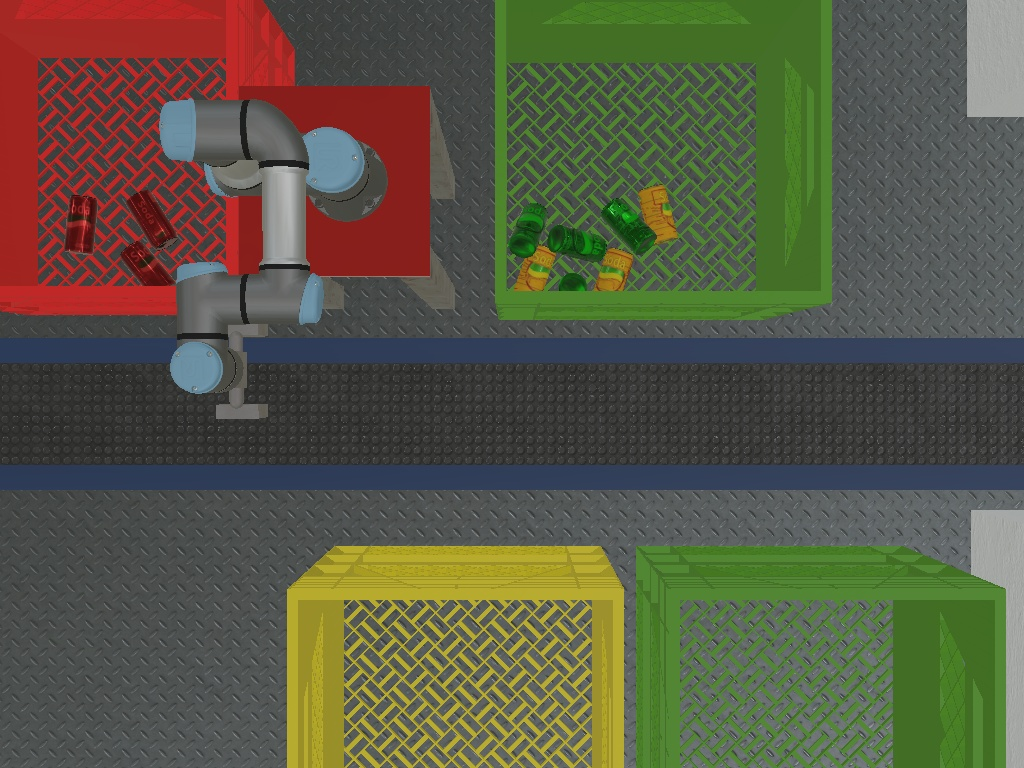
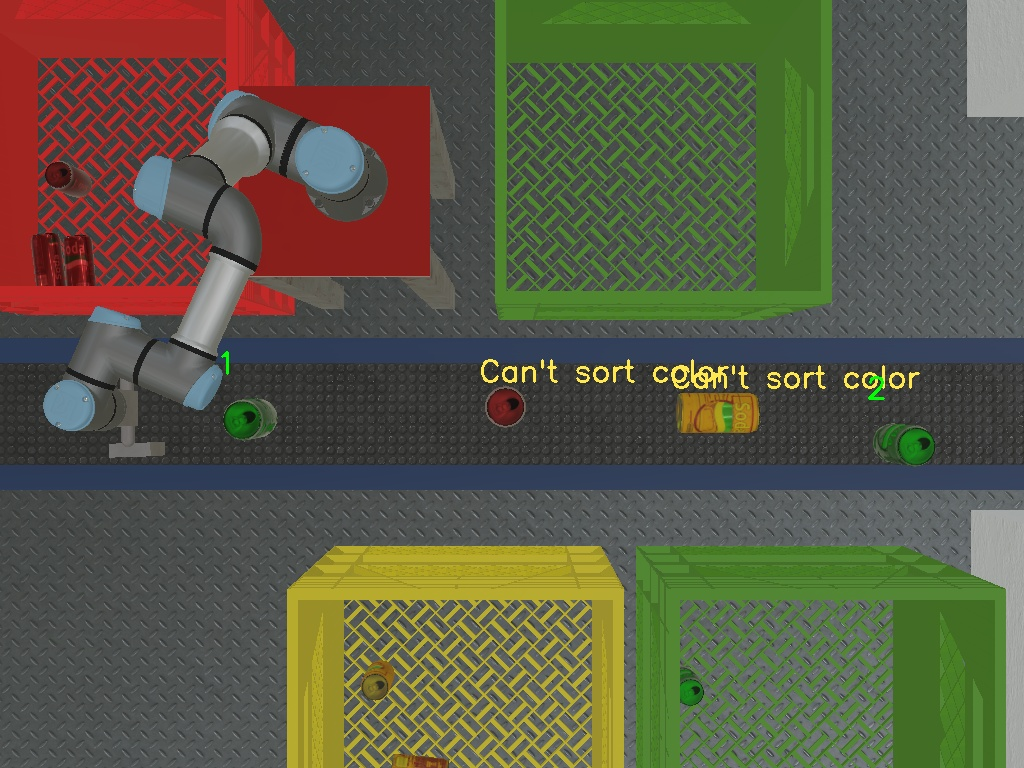
EDIT: Bug fixes after trial runs

diff --git a/controllers/experiment/experiment.py b/controllers/experiment/experiment.py
@@ -11,12 +11,12 @@ random.seed(10)
 
 can_num = 0
 spawn_timer = 0
-spawn_limit = 20
+spawn_limit = 15
 pos_choice = "000"
 
-drawIntention = True
+drawIntention = False
 drawIntentionLimit = 1
-drawRectangle = True
+drawRectangle = False
 drawText = True
 
 
@@ -28,7 +28,7 @@ reason_dict = { 'colorError' : "Can't sort color",
 #max_cans = 20  # 20 is doable with 50 freq
 #freq = 50  # Less is more - 50 is doable
 max_cans = 40  # 20 is doable with 50 freq
-freq = 2  # Less is more - 50 is doable
+freq = 3  # Less is more - 50 is doable
 # from pyutil import filereplace
 # def fileChanger(textToSearch, textToReplace):
 #     for file in os.listdir("resources"):
@@ -129,7 +129,7 @@ def endGame():
     supervisor.simulationSetMode(0)
 
 
-def positionCheck(pos, sens, limit = 0.2):
+def positionCheck(pos, sens, limit = 0.1):
     global movementLock
     if len(pos):
         print("Target position at: {}, position is at {}".format(pos, [math.degrees(sens[i].getValue()) for i in range(len(pos))]))
@@ -423,6 +423,8 @@ move_dict = {"up" : move_up_dic_r, "down" : move_down_dic_r}
 moveFingers(fingers)
 setPoseRobot(custom_dic, "ready")
 
+graspedCan = None
+
 robot_correct, robot_incorrect = 0, 0
 root_children = supervisor.getRoot().getField("children")
 
@@ -444,6 +446,10 @@ while supervisor.step(timestep) != -1:
         canColor = selectionColor
         
     elif ("CRATE" in selectionName) and canSelection:
+        if canSelection.getId() == graspedCan and robot_connector.isLocked():
+            print("\n\n DON*T TAKE IT \n\n")
+            canSelection = None
+            continue
         new_position = selection.getField("translation").getSFVec3f()
         new_position[1] = can_height
         canSelection.getField("translation").setSFVec3f(new_position)
@@ -488,7 +494,7 @@ while supervisor.step(timestep) != -1:
     # Update variables & check if target is still available
     if busy:
         if stage not in ["Sorting", "Release", "LiftOff"] and not robot_connector.isLocked():
-            move_dict = {"up" : move_up_dic_r, "down" : move_down_dic_r} if can_dist[0] > 1.2 else {"up" : move_up_dic_l, "down" : move_down_dic_l} 
+            move_dict = {"up" : move_up_dic_r, "down" : move_down_dic_r} if (can_dist[0] > 0.8*cr_s) else {"up" : move_up_dic_l, "down" : move_down_dic_l} 
             if index not in cansOnConveyor.keys() or candidates[index][2] != "1":
                 print("++++++++++++++ INTERRUPTED ++++++++++++++")
                 for key in stages.keys(): stages[key] = False
@@ -509,14 +515,20 @@ while supervisor.step(timestep) != -1:
 
 
     if stages["GetReady"] and positionCheck(target, sensors) and 0 < (can_dist[0]-tcp.getPosition()[0]) < 0.1*cr_s :
+         
          stages["GetReady"] = False
-         target = setPoseRobot(move_dict["down"], target_pos)      
          stages["Prepare2grap"] = True
+         target = setPoseRobot(move_dict["down"], target_pos)      
+    
+    if stages["Prepare2grap"] and (can_dist[0]-tcp.getPosition()[0]) < -0.05:
+         stages["Prepare2grap"] = False
+         stages["GetReady"] = True
 
-    if stages["Prepare2grap"] and robot_connector.getPresence():
+    if stages["Prepare2grap"] and robot_connector.getPresence():# and (can_dist[0]-tcp.getPosition()[0]) > 0.05:
          stages["Prepare2grap"] = False
          moveFingers(fingers, "close")    
          robot_connector.lock()
+         graspedCan = index
          target = setPoseRobot(move_dict["up"], target_pos)
          #target = setPoseRobot(custom_dic, "ready")
          stages["LiftOff"] = True
@@ -533,8 +545,8 @@ while supervisor.step(timestep) != -1:
         moveFingers(fingers, mode = "open") 
         robot_connector.unlock()
         target = setPoseRobot(custom_dic, candidates[index][0][1])
-        robot_correct += 1 if candidates[index][0][1] == candidates[index][0][0] else 0
-        robot_incorrect += 1 if candidates[index][0][1] != candidates[index][0][0] else 0
+        robot_correct += 2 if candidates[index][0][1] == candidates[index][0][0] else 0
+        robot_incorrect += 2 if candidates[index][0][1] != candidates[index][0][0] else 0
         
 
     if  stages["Release"] and positionCheck(target, sensors, 0.01) and not robot_connector.isLocked() :
